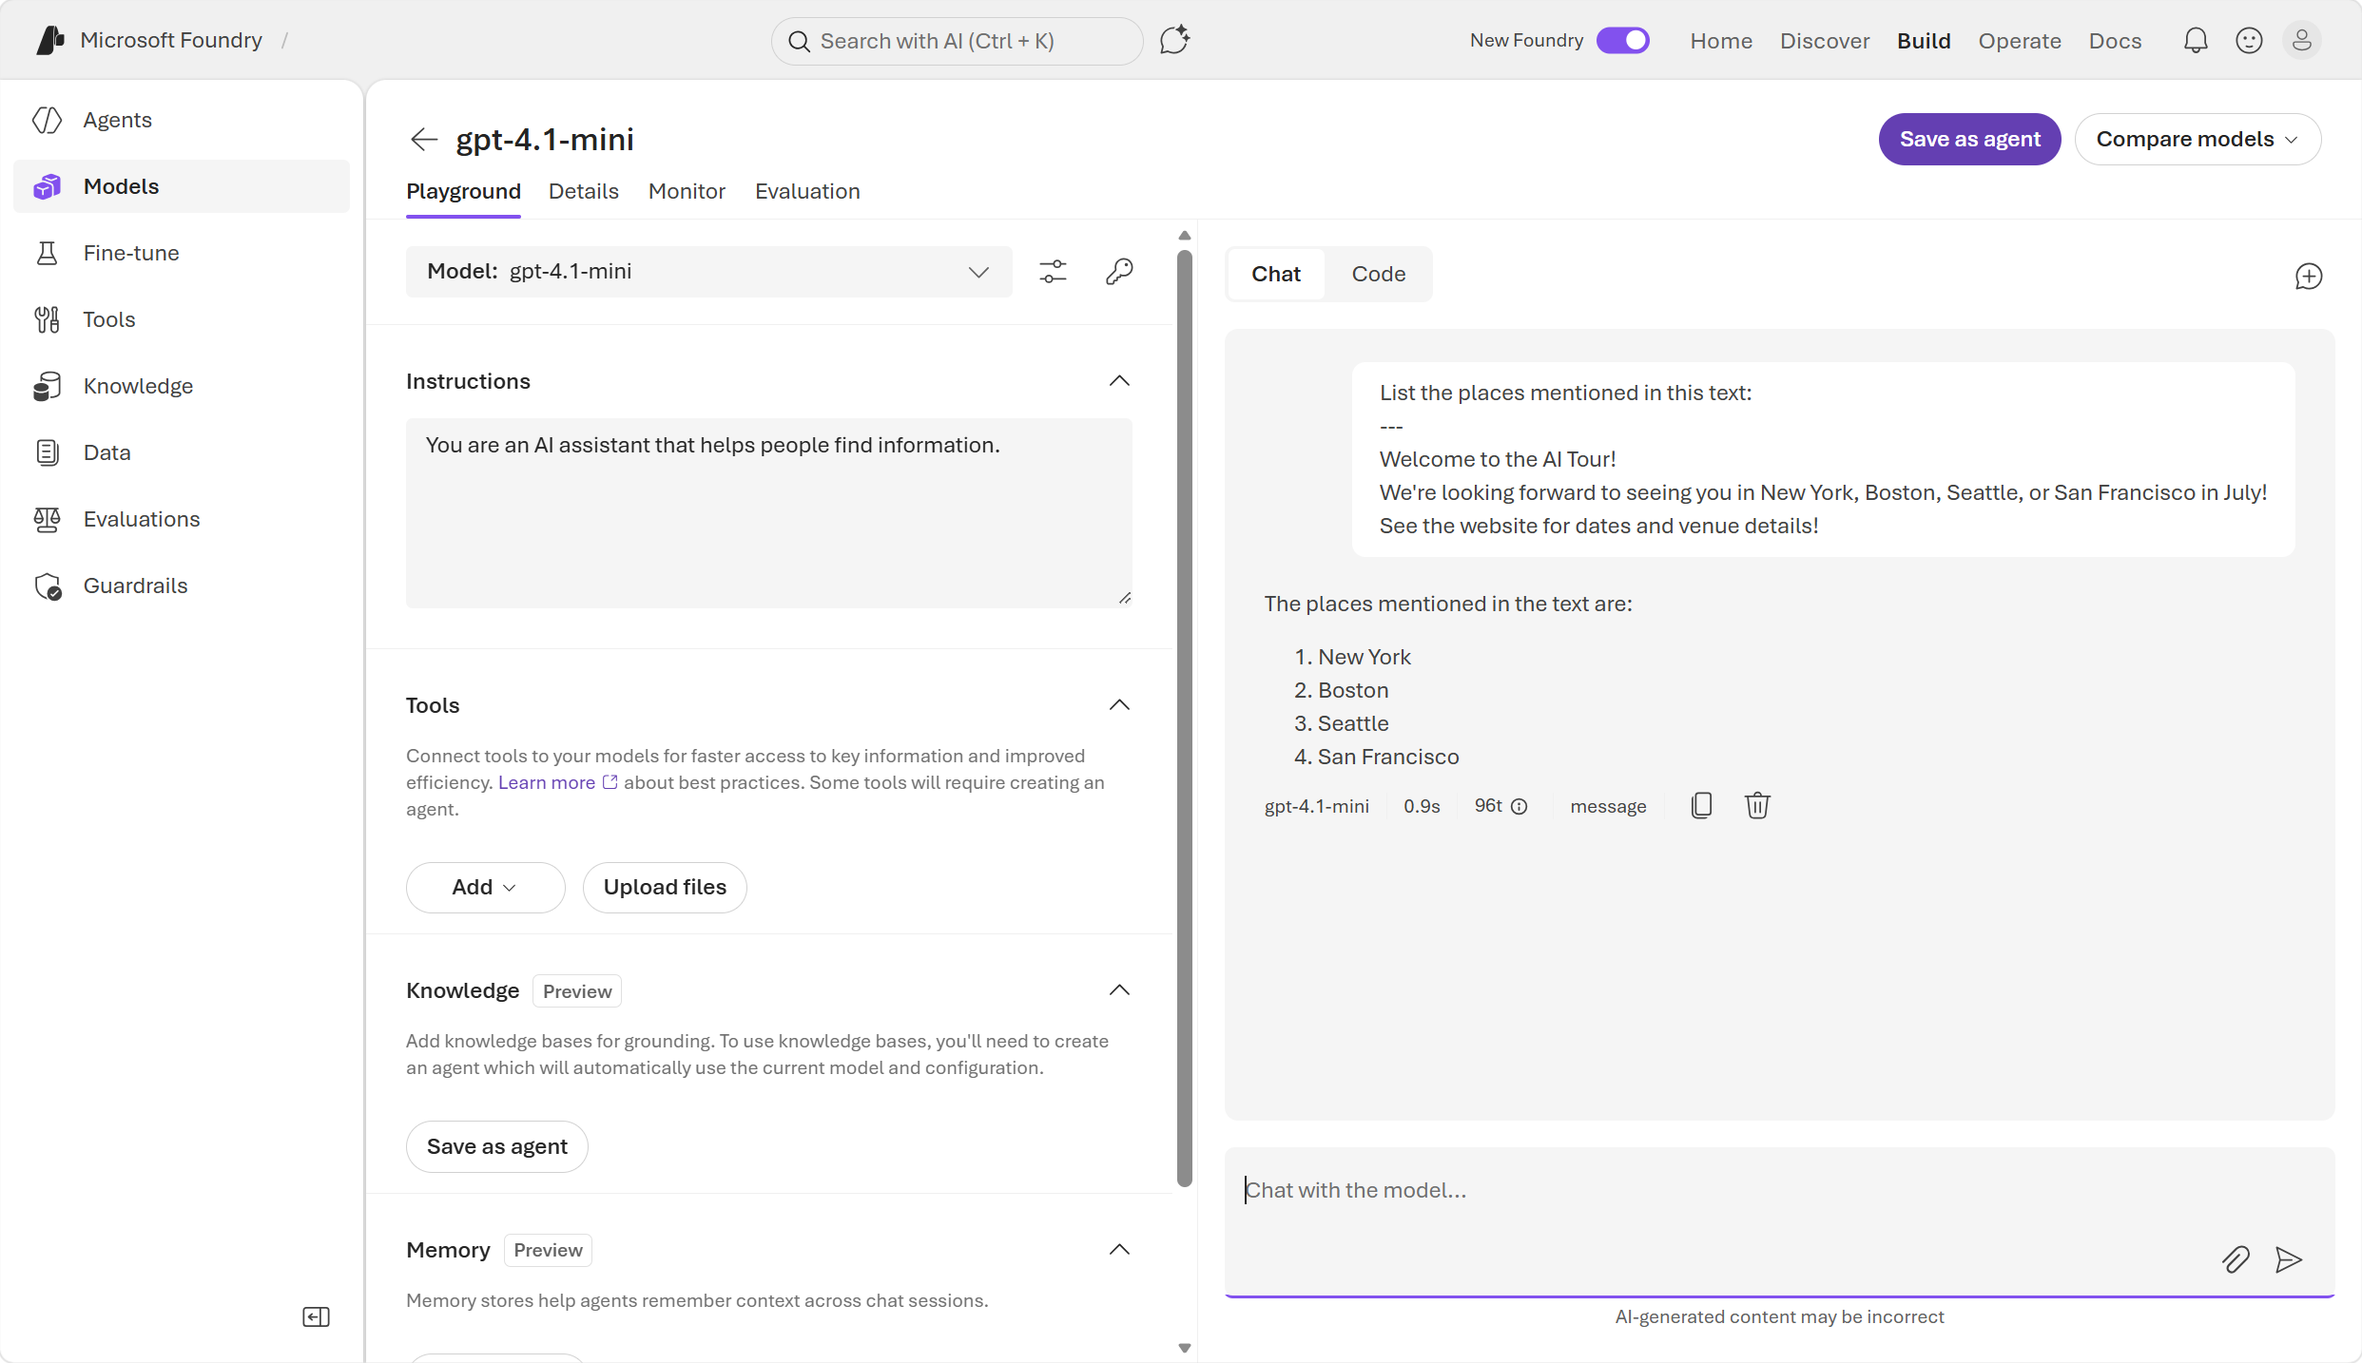
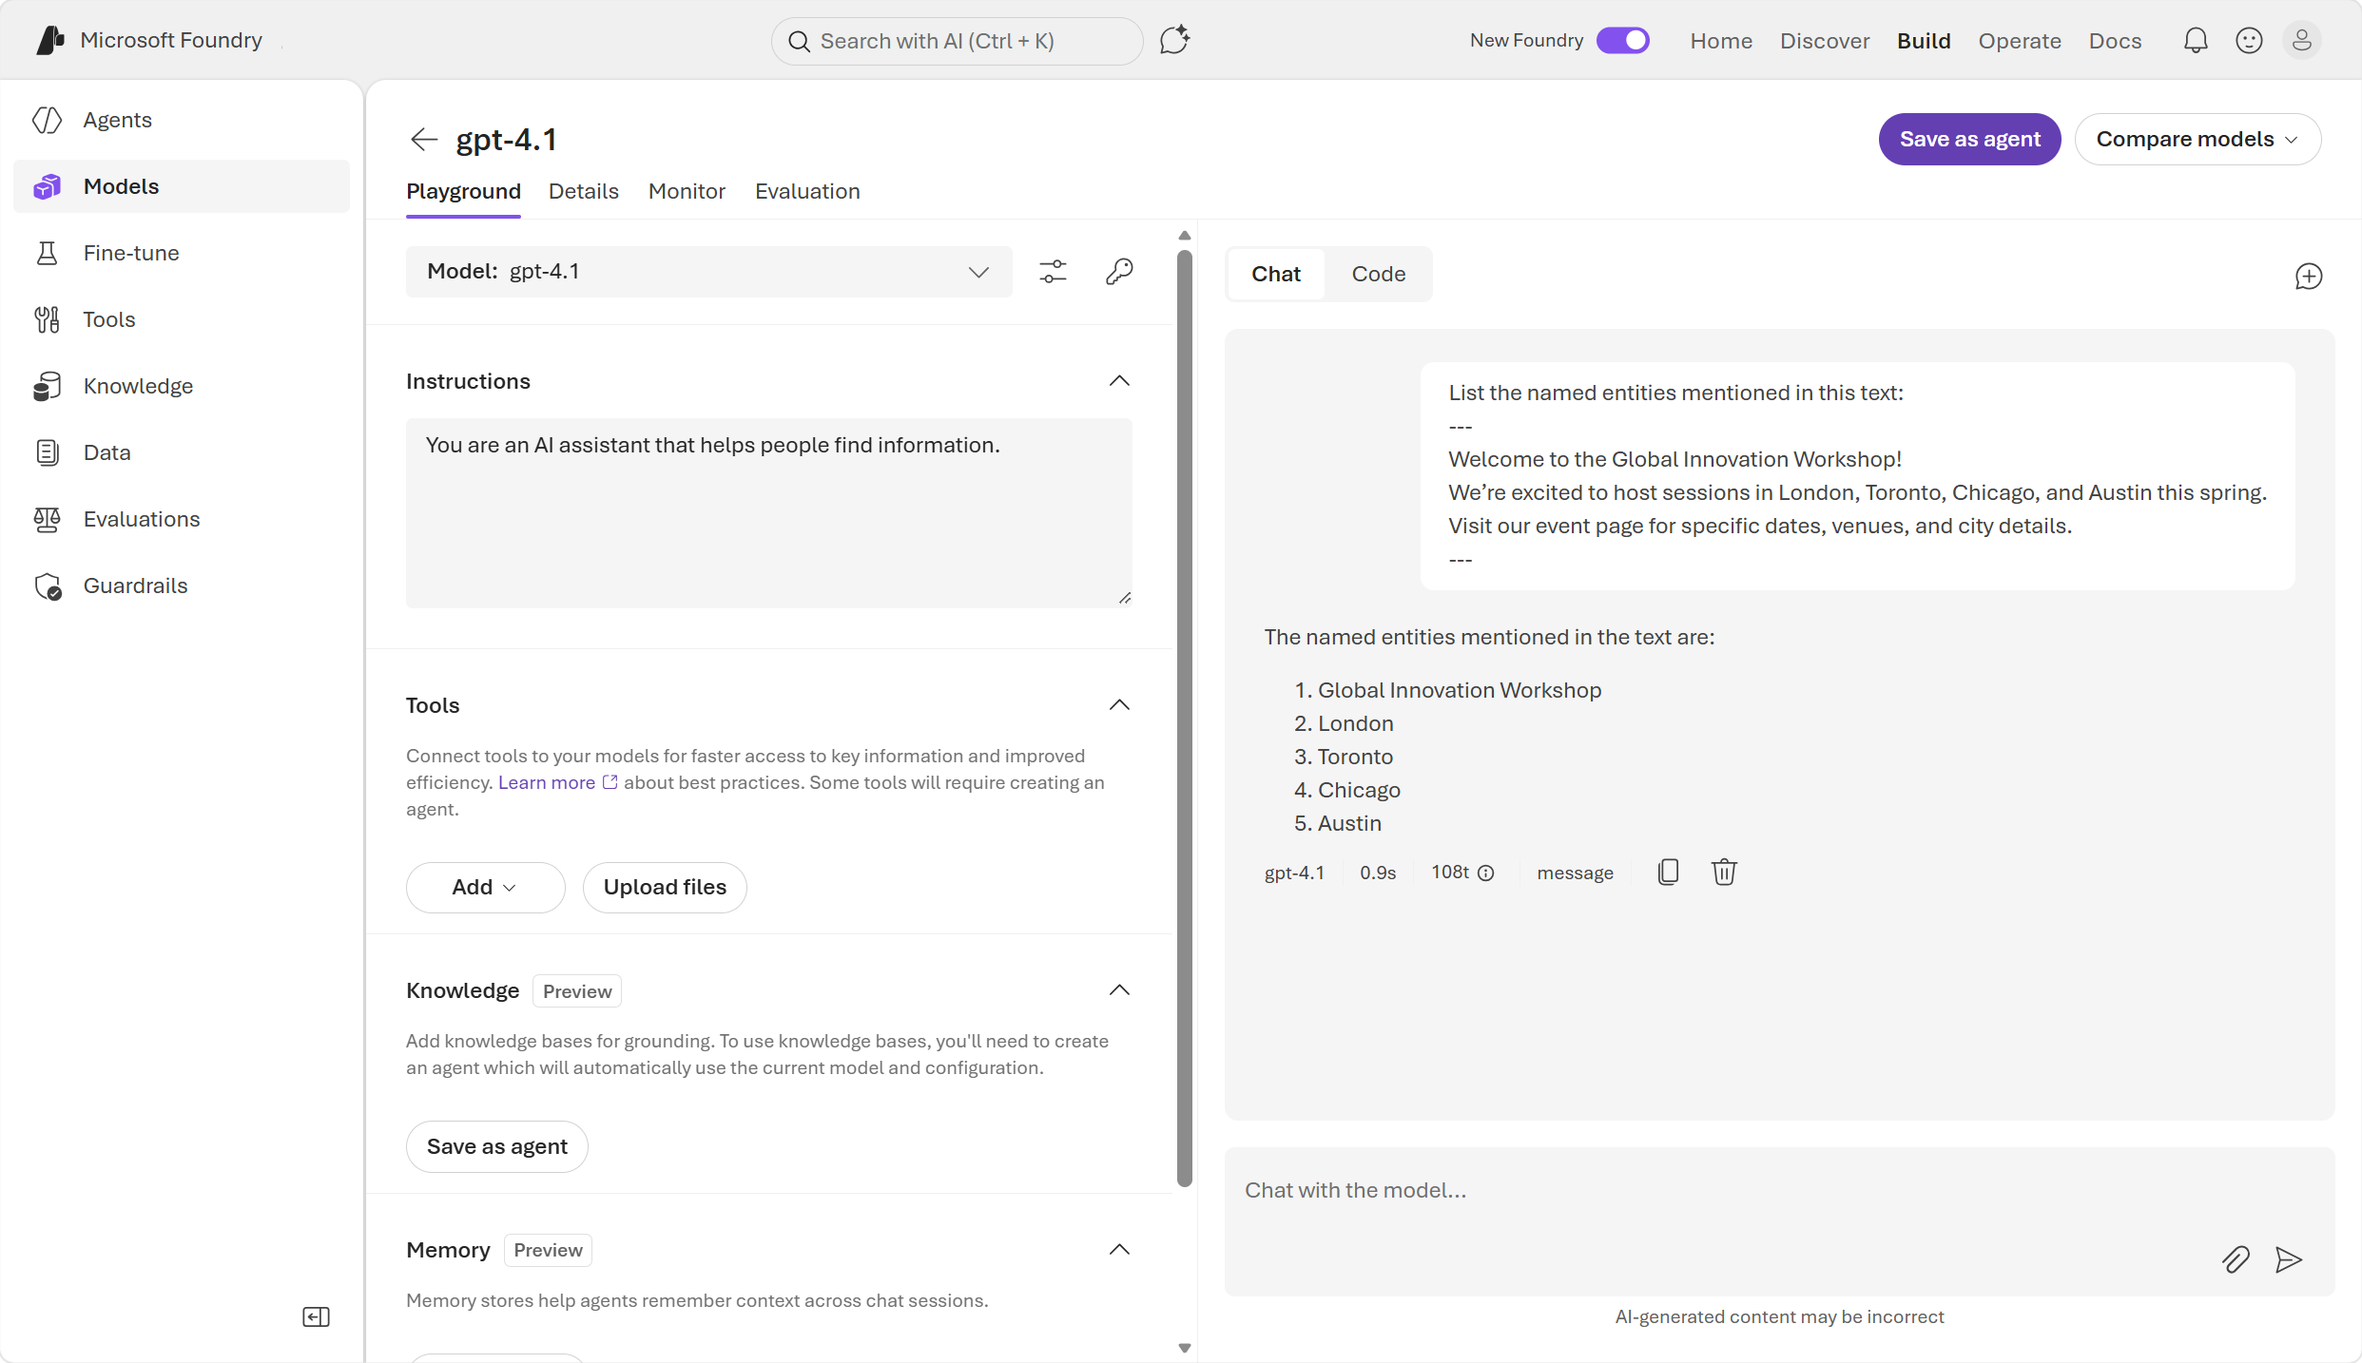
Update for clarity.

diff --git a/Instructions/Exercises/03b-text-analysis.md b/Instructions/Exercises/03b-text-analysis.md
@@ -8,9 +8,9 @@ lab:
 
 # Get started with text analysis in Microsoft Foundry
 
-In this exercise, you'll use Microsoft Foundry, Microsoft's platform for creating AI applications, to explore common text analysis techniques. 
+In this exercise, you'll use **Microsoft Foundry**, Microsoft's platform for creating AI applications, to explore common *text analysis techniques*. 
 
-Foundry offers two approaches to text analysis: general-purpose AI models that handle a broad range of tasks through natural language prompts, and purpose-built language tools that return structured, deterministic results for specific tasks. By exploring both, you'll gain a clearer understanding of when to use each approach.
+Foundry offers *two approaches* to text analysis: **general-purpose AI models** that handle a broad range of tasks through natural language prompts, and **purpose-built language tools** that return structured, deterministic results for specific tasks. By exploring both, you'll gain a clearer understanding of when to use each approach.
 
 In the first part of this exercise, you'll use a general purpose AI model in the *new* Foundry portal's chat playground. In the second part of this exercise, you'll explore some features of Azure Language in Foundry tools. 
 
@@ -20,7 +20,7 @@ This exercise takes approximately **20** minutes.
 
 1. In a web browser, open [Microsoft Foundry](https://ai.azure.com){:target="_blank"} at `https://ai.azure.com` and sign in using your Azure credentials. Close any tips or quick start panes that are opened the first time you sign in, and if necessary use the **Foundry** logo at the top left to navigate to the home page.
 
-2. If it is not already enabled, in the tool bar the top of the page, enable the **New Foundry** option. Then, if prompted, create a new project with a unique name; expanding the  **Advanced options** area to specify the following settings for your project:
+2. If it is not already enabled, in the tool bar the top of the page, enable the **New Foundry** option. Then, if prompted, create a new project with a unique name; expanding the **Advanced options** area to specify the following settings for your project:
     - **Foundry resource**: *Enter a valid name for your AI Foundry resource.*
     - **Subscription**: *Your Azure subscription*
     - **Resource group**: *Create or select a resource group*
@@ -30,33 +30,32 @@ This exercise takes approximately **20** minutes.
 
     ![Screenshot of the Foundry project home page.](./media/foundry-portal-home.png)
 
-    >**Note**: Close any quick start panes that are opened in order to access your project's Foundry home page. 
+    >**Note**: Close any quick start panes in order to access your project's Foundry home page. 
 
 ## Part 1: Explore Foundry model text analysis capabilities
 
-In this part of the exercise, you'll use the **new** Foundry portal and a general-purpose large language model (LLM) to perform text analysis through natural language prompts. An LLM can handle a wide variety of tasks through prompting alone.
+In this part of the exercise, you'll use the *new* Foundry portal and a general-purpose language model to perform text analysis through natural language prompts. A language model can handle a wide variety of tasks through prompting alone.
 
-1. From the Foundry home page in the **new** Foundry portal interface, select **Start building**. Then select **Find models** to view the Microsoft Foundry model catalog.
+1. From the Foundry home page in the *new* Foundry portal interface, select **Start building**. Then select **Find models** to view the Microsoft Foundry model catalog.
 
-    ![Screenshot of the AI Foundry model catalog.](./media/0-foundry-models.png)
+    ![Screenshot of the AI Foundry model catalog.](./media/0-foundry-model-catalog.png)
 
-2. Search for and select the `gpt-4.1-mini` model, and view the page for this model, which describes its features and capabilities.
+2. Search for and select the `gpt-4.1` model, and view the page for this model, which describes its features and capabilities.
 
-    ![Screenshot of the gpt-4.1-mini model page.](./media/0-gpt-4.1-mini.png)
+    ![Screenshot of the gpt-4.1 model page with the default settings deployment option highlighted.](./media/0-gpt-4.1.png)
 
-3. Use the **Deploy** button to deploy the model using the default settings. Wait for the deployment to complete. After the deployment is complete, you are taken to a chat playground.
+3. Use the **Deploy** button to deploy the model using the *default settings*. Wait for the deployment to complete. After the deployment is complete, you are taken to a chat playground, where you can test out the model's capabilities. 
 
 ### Analyze sentiment
 
-Sentiment analysis is a common NLP task. It's used to determine whether text conveys a positive, neutral or negative sentiment; which makes it useful for categorizing reviews, social media posts, and other subjective documents.
+**Sentiment analysis** is a common *natural language processing* (NLP) task. It's used to determine whether text conveys a positive, neutral or negative sentiment; which makes it useful for categorizing reviews, social media posts, and other subjective documents.
 
 1. In the chat playground, enter the following prompt:
 
     ```
-    Analyze the following review, and determine whether the sentiment is positive or negative:
+    Analyze the following review, and determine whether the sentiment is positive, neutral, or negative:
     ---
-    I stayed at the Hudson View Hotel in New York for four nights in November, and it exceeded every expectation. From the moment I arrived, the staff made the experience memorable.
-    Overall, the Hudson View Hotel made my trip to New York feel effortless and enjoyable. Highly recommended for anyone wanting friendly service and a great location.
+    I spent several nights at the Riverside Heights Hotel during a fall trip, and the experience was outstanding from start to finish. The welcome at arrival was warm and attentive, and the staff consistently went out of their way to be helpful. The overall atmosphere made my stay smooth and relaxing, and the location was extremely convenient for getting around the city. I left with a very positive impression and would confidently recommend this hotel to others looking for a pleasant and stress‑free stay.
     ---
     ```
 
@@ -70,7 +69,7 @@ Sentiment analysis is a common NLP task. It's used to determine whether text con
 
     What about this one?
     ---
-    I had a terrible stay at the Sunset Palms Hotel in September. Check‑in was slow, and most of the staff seemed overwhelmed and uninterested. Between the thin walls, unreliable Wi‑Fi, and general lack of cleanliness, I wouldn’t stay at Sunset Palms again.
+    I was disappointed with my visit to the Harbor View Inn earlier this year. The front desk process took much longer than expected, and staff responses to questions felt rushed and unhelpful. The room had ongoing maintenance issues, inconsistent internet access, and noticeable noise from the hallway throughout the night. Overall, the experience fell short of expectations, and I would not choose to stay there again.        
     ---
     ```
 
@@ -78,18 +77,19 @@ Sentiment analysis is a common NLP task. It's used to determine whether text con
 
 ### Extract named entities
 
-Named entities are the people, places, dates, and other important items mentioned in text.
+**Named entities** are the people, places, dates, and other important items mentioned in text.
 
 1. At the top of the chat pane, use the **New chat** (&#128172;) button to restart the conversation. This removes all conversation history.
 
 2. Enter the following prompt, and review the results:
 
     ```
-    List the places mentioned in this text:
+    List the named entities mentioned in this text:
     ---
-    Welcome to the AI Tour!
-    We're looking forward to seeing you in New York, Boston, Seattle, or San Francisco in July!
-    See the website for dates and venue details!
+    Welcome to the Global Innovation Workshop!
+    We’re excited to host sessions in London, Toronto, Chicago, and Austin this spring.
+    Visit our event page for specific dates, venues, and city details.
+    ---
     ```
 
     The model should identify the specific places mentioned in the text.
@@ -98,7 +98,7 @@ Named entities are the people, places, dates, and other important items mentione
 
 ### Summarize text
 
-Summarization is a way to distill the main points in a document into a shorter amount of text.
+**Summarization** is a way to distill the main points in a document into a shorter amount of text.
 
 1. At the top of the chat pane, use the **New chat** (&#128172;) button to restart the conversation. This removes all conversation history.
 1. Enter the following prompt, and review the results:
@@ -107,15 +107,15 @@ Summarization is a way to distill the main points in a document into a shorter a
 
     Summarize the following meeting transcript in a single paragraph
     ---
-    Alex Chen: “We need an offsite location that’s easy to reach—Denver and Austin were my first thoughts.”
-    Priya Nair: “Austin’s appealing, but I’m worried about hotel availability and overall cost.”
-    Miguel Torres: “I checked a few options, and Las Vegas consistently comes out easier for flights and venues.”
-    Alex Chen: “That’s true—Vegas also gives us more flexibility than Denver or San Diego.”
-    Priya Nair: “San Diego would be nice, but when we compare logistics, Vegas clearly wins.”
-    Miguel Torres: “Exactly—it’s simpler and more scalable than the other options.”
-    Alex Chen: “Sounds like we’re aligned that Las Vegas is the best choice overall.”
-    Priya Nair: “Yes, I’m comfortable choosing Vegas over the other locations.”
-    Miguel Torres: “Agreed—let’s lock in Las Vegas for the offsite.”
+    Jordan Lee: “We should pick a retreat location that’s convenient for most people—Chicago and Nashville came to mind first.”
+    Anika Sharma: “Chicago is central, but the venue costs there can add up quickly.”
+    Carlos Ramirez: “I looked into a few alternatives, and Phoenix seems much easier when it comes to flights and space.”
+    Jordan Lee: “That makes sense—Phoenix does offer more flexibility than Chicago or Portland.”
+    Anika Sharma: “Portland would be enjoyable, but from a planning standpoint, Phoenix is simpler.”
+    Carlos Ramirez: “Exactly. It scales better and avoids some of the pricing issues.”
+    Jordan Lee: “So it sounds like Phoenix is our strongest option overall.”
+    Anika Sharma: “Yes, I’m comfortable choosing Phoenix over the other cities.”
+    Carlos Ramirez: “Agreed—let’s move forward with Phoenix for the retreat.”
     ```
 
     The model should generate a summary of the text.
@@ -124,12 +124,13 @@ Summarization is a way to distill the main points in a document into a shorter a
 
 ## Part 2: Use a specialized language analysis tool
 
-While a large language model that's trained for general generative AI workloads can often do a great job of text analysis, sometimes a more specialized tool can be used by an agent to get more predictable results.
+While a language model that's trained for general generative AI workloads can often do a great job of text analysis, sometimes a more specialized tool can be used by an agent to get more predictable results.
 
-The Azure Language service provides purpose-built analyzers that use statistical techniques to return structured, deterministic results — ideal for consistent output in automated pipelines.
+The **Azure Language in Foundry Tools** provides purpose-built analyzers that use statistical techniques to return structured, deterministic results — ideal for consistent output in automated pipelines.
 
-1. Make sure you are still in the **new** Foundry portal. In the *new* Foundry portal, navigate to the menu at the top of the screen and select **Build**. 
-2. On the *Build* page, navigate to the menu on the left-side of the screen (you may need to expand it by clicking on the expand icon at the bottom of the menu to see all the options). From the left-side menu, select **Models**. Then, at the top of the *Models* page, select **AI Services**. 
+1. In the *new* Foundry portal, navigate to the menu at the top of the screen and select **Build**. 
+
+2. On the *Build* page, navigate to the menu on the left-side of the screen (you may need to expand it by clicking on the expand icon at the bottom of the menu). From the left-side menu, select **Models**. Then, at the top of the *Models* page, select **AI Services**. 
 
     ![Screenshot of the Language features listed on the new Foundry models page.](./media/foundry-ai-services.png)
 
@@ -161,7 +162,7 @@ In scenarios where text could potentially be in one of multiple languages, the f
 
 ### Identify PII in text
 
-To comply with privacy policies and laws, organizations often need to detect and redact personally identifiable information (PII) such as names, addresses, phone numbers, email addresses, and other personal details.
+To comply with privacy policies and laws, organizations often need to detect and redact **personally identifiable information (PII)** such as names, addresses, phone numbers, email addresses, and other personal details.
 
 1. In the list of AI services, select the **Azure Language - Text PII extraction** analyzer.
 2. In the **Input text** list, select one of the provided sample documents. Then use the **Detect** button to detect PII values in the text.
@@ -188,9 +189,9 @@ To comply with privacy policies and laws, organizations often need to detect and
 
 ### Review the sample code
 
-Foundry often provides sample code for many Azure Language capabilities. You can use the sample code to begin creating your own client application. 
+Foundry provides sample code for some Azure Language capabilities. You can use the sample code to begin creating your own client application. 
 
-1. Select the **Code** tab to the  to view sample code for PII identification. 
+1. Select the **Code** tab on the right to view sample code for PII identification. 
 
     ![Screenshot of the Code tab open in the Playground.](./media/text-05-code.png)
 
@@ -241,3 +242,8 @@ If you have finished exploring Microsoft Foundry, delete any resources that you 
 1. Open the **Azure portal** at [https://portal.azure.com](https://portal.azure.com) and select the resource group that contains the resources you created.
 1. Select **Delete resource group** and then **enter the resource group name** to confirm. The resource group is then deleted.
 
+## Learn more
+
+- Review the [evolution of Foundry](https://learn.microsoft.com/azure/foundry/what-is-foundry#evolution-of-foundry) 
+- [What is Azure Language in Foundry Tools?](https://learn.microsoft.com/azure/ai-services/language-service/overview)
+- Learn more about [Personally identifiable information (PII) detection](https://learn.microsoft.com/azure/ai-services/language-service/personally-identifiable-information/overview)
